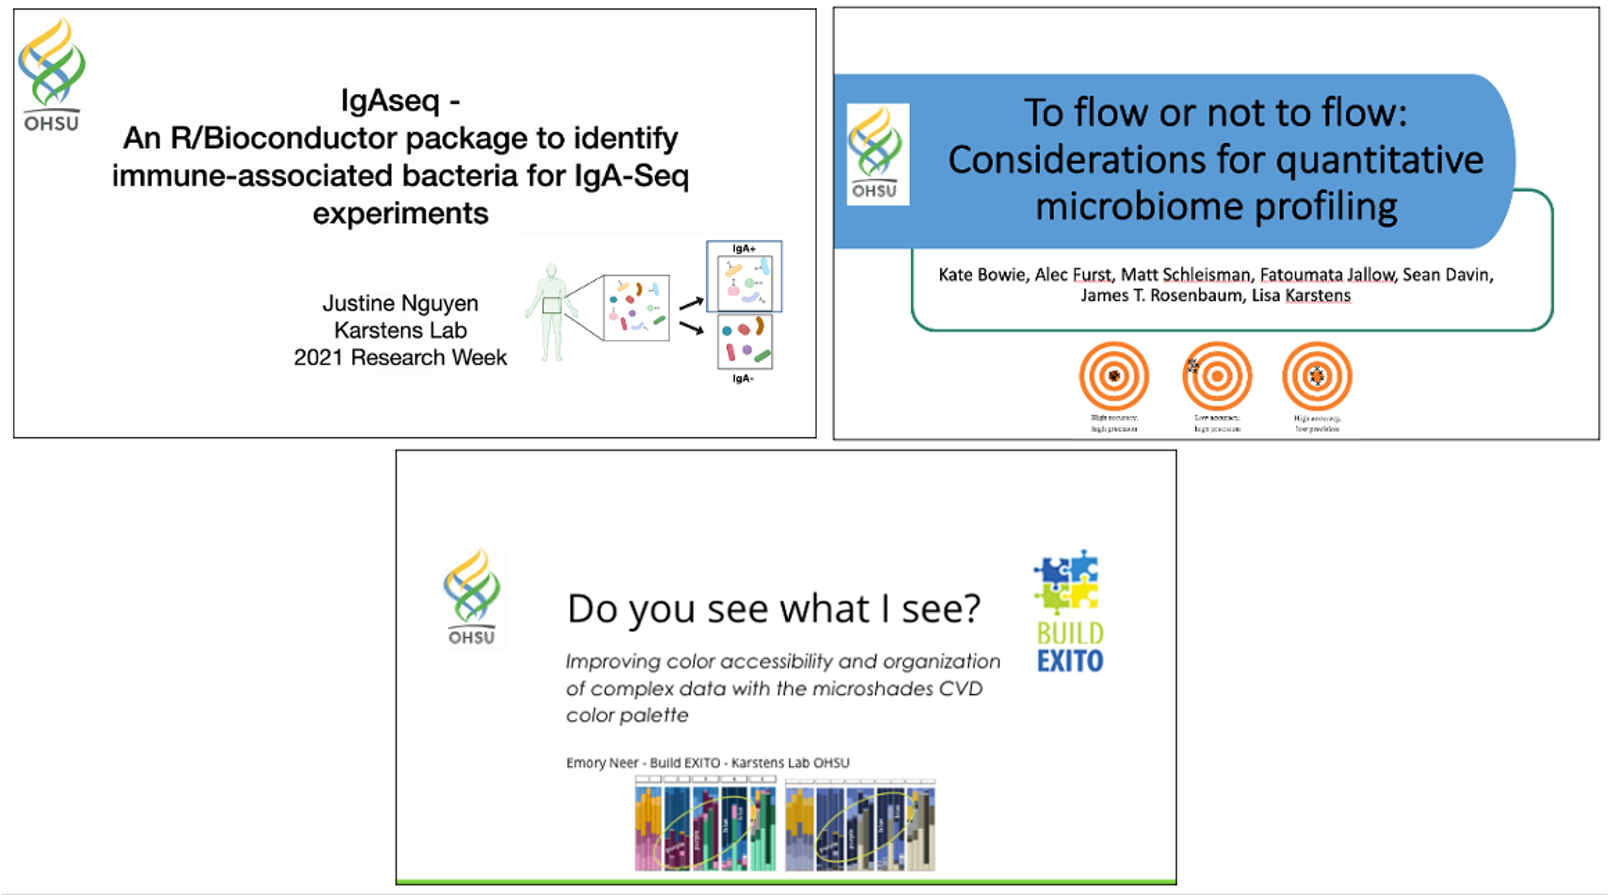
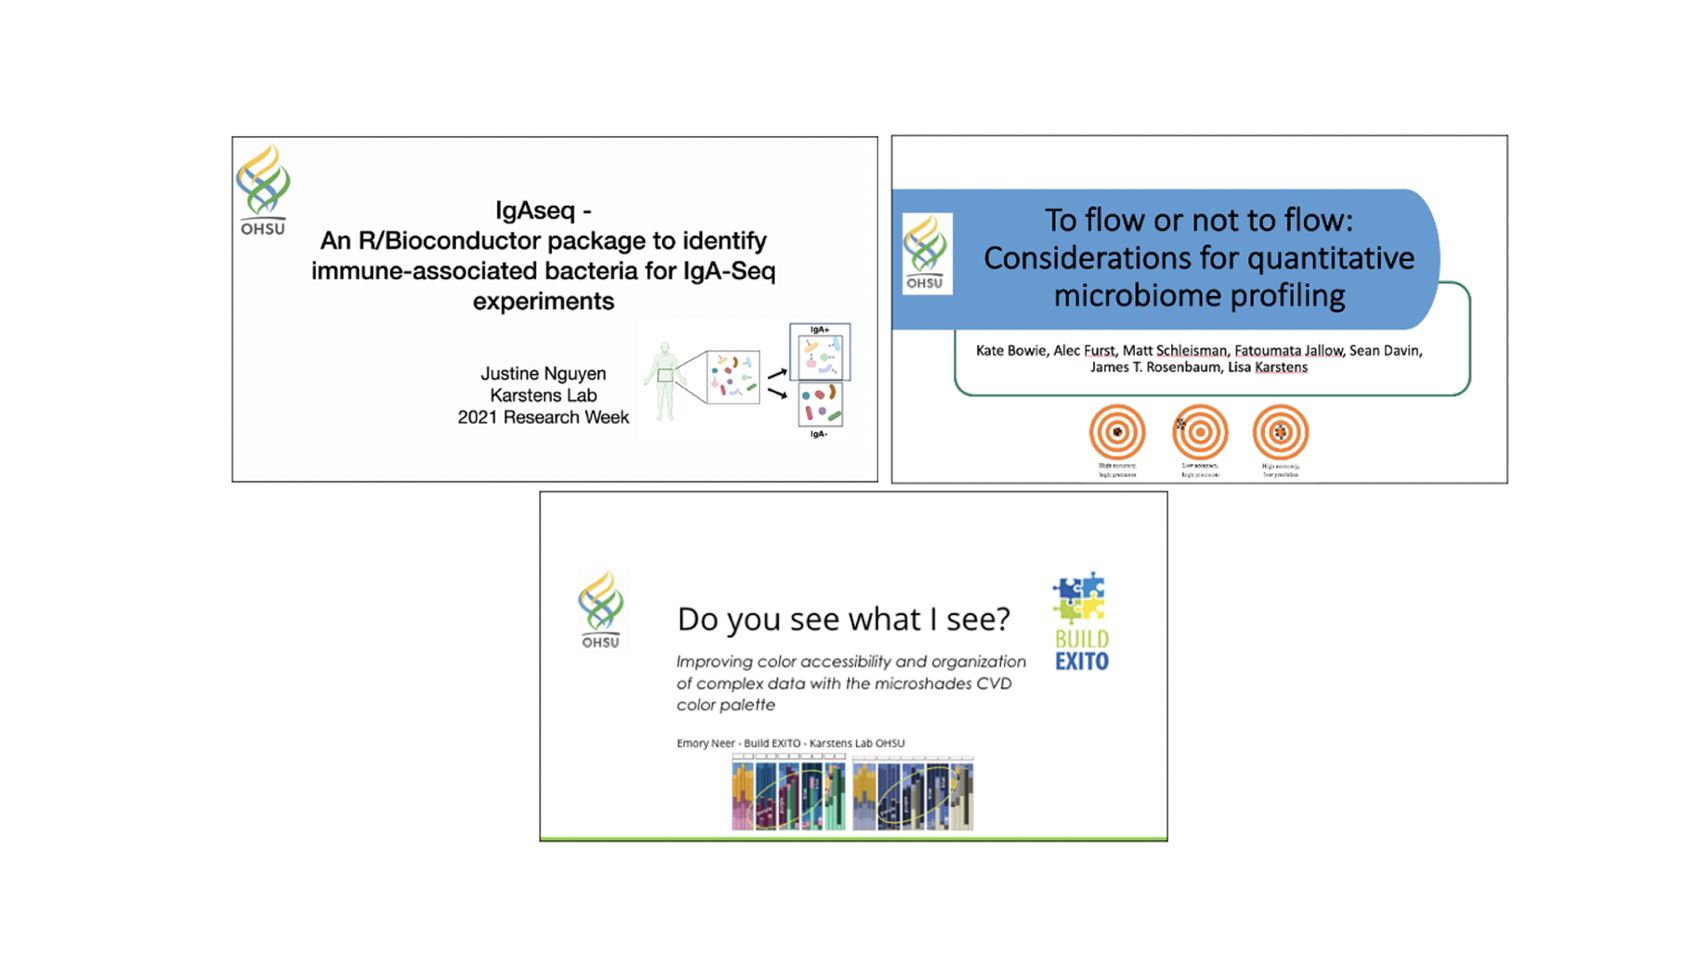
image resized

diff --git a/post/research_week_2021/index.html b/post/research_week_2021/index.html
@@ -400,7 +400,7 @@
 <div class="container split-header">
   <div class="row justify-content-center">
     <div class="col-lg-8">
-        <img class="img-fluid w-100" src="/post/research_week_2021/featured_hu9674efdee66e2336adc71e43aa0ba04a_408465_680x500_fill_q90_lanczos_center_2.png" itemprop="image" alt="">
+        <img class="img-fluid w-100" src="/post/research_week_2021/featured_hu8c8b752a81ad26913c2cfe38462f3c45_1407921_680x500_fill_q90_lanczos_center_2.png" itemprop="image" alt="">
         
     </div>
     <div class="col-lg-8">

diff --git a/index.html b/index.html
@@ -662,7 +662,7 @@
     
     
     <a href="/post/research_week_2021/">
-      <img src="/post/research_week_2021/featured_hu9674efdee66e2336adc71e43aa0ba04a_408465_918x517_fill_q90_lanczos_center_2.png" class="article-banner" itemprop="image" alt="">
+      <img src="/post/research_week_2021/featured_hu8c8b752a81ad26913c2cfe38462f3c45_1407921_918x517_fill_q90_lanczos_center_2.png" class="article-banner" itemprop="image" alt="">
     </a>
     
 

diff --git a/post/index.html b/post/index.html
@@ -443,7 +443,7 @@
     
     
     <a href="/post/research_week_2021/">
-      <img src="/post/research_week_2021/featured_hu9674efdee66e2336adc71e43aa0ba04a_408465_918x517_fill_q90_lanczos_center_2.png" class="article-banner" itemprop="image" alt="">
+      <img src="/post/research_week_2021/featured_hu8c8b752a81ad26913c2cfe38462f3c45_1407921_918x517_fill_q90_lanczos_center_2.png" class="article-banner" itemprop="image" alt="">
     </a>
     
 
